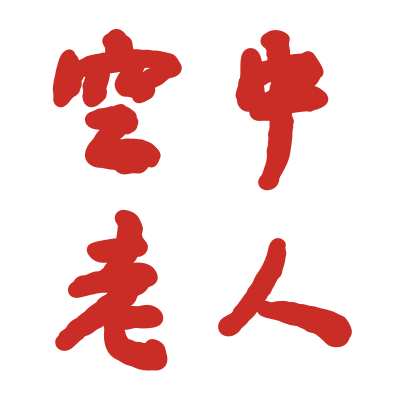
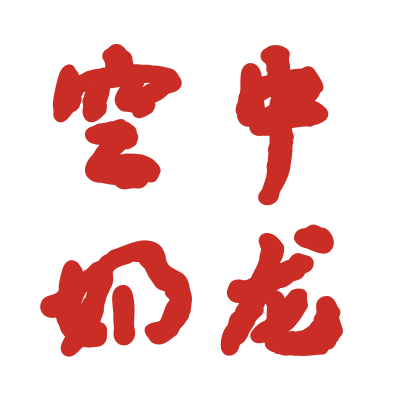
✨ Rename the veteran seal titles to Milk Dragon and Milk Frog.
- The >50% career-share composition seals now read 空中奶龙 / 水下奶蛙
  (was 空中老人 / 水下老人): the display text maps (RatingStamp
  STAMP_TEXT, overlay chip wording), the two regenerated seal bitmaps,
  the font-attribution copy in all nine locales, and every comment
  citing the old faces.
- The airVeteran / subVeteran kind IDs, the stats.seal*VeteranDesc
  award-criteria copy, and existing user seal customizations are
  untouched — only the face and its naming change.
- Bitmaps regenerated locally with 方正鲁迅行书 via
  scripts/gen_stamp_bitmaps.py (the font still ships nowhere); its
  docstring enumeration also gains the previously missing
  水下 over 小人 face.

diff --git a/packages/webui/src/utils/winrate.ts b/packages/webui/src/utils/winrate.ts
@@ -88,8 +88,8 @@ export type CareerStamp = "miracle" | "ape" | "maggot" | "rat";
  *  both a career stamp and a composition stamp. */
 export type CompositionStamp = "air" | "sub";
 
-/** Veteran composition stamps (老人章): a class share over 50% upgrades the
- *  tag to 空中老人 / 水下老人, which REPLACES the minor (小人) seal for that
+/** Veteran composition stamps (奶龙 / 奶蛙章): a class share over 50% upgrades the
+ *  tag to 空中奶龙 / 水下奶蛙, which REPLACES the minor (小人) seal for that
  *  class — the veteran implies the >20% tag, so only the stronger face shows.
  *  Still composition seals (they render at comp size); unlike the minor tags
  *  they never merge with career verdicts. */
@@ -133,7 +133,7 @@ export function isMergedStamp(kind: StampKind): boolean {
  *     invisible, so its composition tags carry nothing gradeable; the rat
  *     suppression has the same shape as the maggot floor.
  *   - Otherwise the legacy order [career?, air-tier?, sub-tier?] stands:
- *     each class shows its stronger face, the veteran seal (老人) when the
+ *     each class shows its stronger face, the veteran seal (奶龙 / 奶蛙) when the
  *     share is over 50%, the minor seal (小人) when only over 20%.
  *  `career` null and `comp` null/undefined degrade to the legacy pass-through
  *  with nothing to add. */
@@ -196,7 +196,7 @@ export function careerStamp(
 export interface CompositionStamps {
   air: boolean;
   sub: boolean;
-  /** >50% career share tiers (老人章) — each implies its base flag above by
+  /** >50% career share tiers (奶龙 / 奶蛙章) — each implies its base flag above by
    *  construction (0.5 > 0.2), so only the stronger face ever shows. */
   airVeteran: boolean;
   subVeteran: boolean;
@@ -205,7 +205,7 @@ export interface CompositionStamps {
 /** 空中小人 / 水下小人 criteria (user-defined): CV (resp. SS) battles must
  *  exceed 20% of the player's career battles, with a career total above 200
  *  battles so a fresh account's first CV foray doesn't earn the mark; over
- *  50% the tag upgrades to the veteran seal (空中老人 / 水下老人), which
+ *  50% the tag upgrades to the veteran seal (空中奶龙 / 水下奶蛙), which
  *  replaces the minor (小人) face for that class. `ships` is the player's
  *  full per-ship stat list; `typeOf` resolves the ship type (encyclopedia
  *  first, offline DB fallback). Career-level tags: they render on the

diff --git a/packages/webui/src/overlay/main.ts b/packages/webui/src/overlay/main.ts
@@ -354,8 +354,8 @@ const STAMP_TEXT: Record<StampKind, string> = {
   rat: "过街老鼠",
   air: "空中小人",
   sub: "水下小人",
-  airVeteran: "空中老人",
-  subVeteran: "水下老人",
+  airVeteran: "空中奶龙",
+  subVeteran: "水下奶蛙",
   airMiracle: "空中神人",
   subMiracle: "水下神人",
   airApe: "空中小猴",
@@ -636,7 +636,7 @@ function chipContent(name: string, side: "ally" | "enemy", storyLayout: boolean)
   // tags collapses into the merged 空中神人 / 水下神人 / 空中小猴 / 水下小猴
   // seals, which replace (consume) their constituents; 蛆 and 过街老鼠 each
   // suppress the comp tags entirely, and a >50% class share upgrades the
-  // minor tag to the veteran 老人 seal in the career-leads-then-air-then-sub
+  // minor tag to the veteran 奶龙 / 奶蛙 seal in the career-leads-then-air-then-sub
   // order. A name without stats yet shows no seal at
   // all — the verdicts are derived from data the stats/composition
   // batches bring. Hidden profiles with a clan additionally HOLD their

diff --git a/packages/webui/src/components/base/RatingStamp.tsx b/packages/webui/src/components/base/RatingStamp.tsx
@@ -36,7 +36,7 @@ let stampSeq = 0;
  *   - "rat" (过街老鼠): hidden profile — no stats to grade, hiding is the tell
  *   - "air" (空中小人) / "sub" (水下小人): composition tags for CV / submarine
  *     mains (career share > 20% over 200+ battles)
- *   - "airVeteran" (空中老人) / "subVeteran" (水下老人): the veteran
+ *   - "airVeteran" (空中奶龙) / "subVeteran" (水下奶蛙): the veteran
  *     composition tier for a class share > 50% — replaces the minor (小人)
  *     seal for that class and never merges with career verdicts
  *   - "airMiracle" (空中神人) / "subMiracle" (水下神人) / "airApe" (空中小猴)
@@ -82,8 +82,8 @@ const STAMP_TEXT: Record<StampKind, string> = {
   rat: "过街老鼠",
   air: "空中小人",
   sub: "水下小人",
-  airVeteran: "空中老人",
-  subVeteran: "水下老人",
+  airVeteran: "空中奶龙",
+  subVeteran: "水下奶蛙",
   airMiracle: "空中神人",
   subMiracle: "水下神人",
   airApe: "空中小猴",

diff --git a/packages/webui/src/features/share/statsShot.ts b/packages/webui/src/features/share/statsShot.ts
@@ -292,7 +292,7 @@ export async function renderStatsShot(
   // 水下神人 / 空中小猴 / 水下小猴 seals — which replace (consume) their
   // constituents — while 蛆 and 过街老鼠 each suppress the comp tags
   // entirely. Sizing: career verdicts keep today's hero scale; the comp
-  // faces render small — the minor tags and the veteran (老人) tiers alike,
+  // faces render small — the minor tags and the veteran (奶龙 / 奶蛙) tiers alike,
   // the veterans being composition seals too (and, unlike the minor tags,
   // never merging). A merged seal is hero-sized only when it is the
   // cluster's ONLY member — two merged seals render small so the hero band

diff --git a/packages/webui/src/components/stats/StatsCard.tsx b/packages/webui/src/components/stats/StatsCard.tsx
@@ -66,7 +66,7 @@ export default defineComponent({
     // alongside comp tags collapse into the merged 空中神人 / 水下神人 /
     // 空中小猴 / 水下小猴 seals, which replace (consume) their constituents;
     // 蛆 and 过街老鼠 each suppress the comp tags entirely, and a >50% class
-    // share shows the veteran (老人) tier in place of the minor tag.
+    // share shows the veteran (奶龙 / 奶蛙) tier in place of the minor tag.
     const stamps = computed(() => resolveStamps(stamp.value, composition.value));
     // The seals render nothing outside zh locales (RatingStamp's own rule),
     // while the PR rating is off (the seals toggle is the master switch's

diff --git a/packages/webui/src/components/stats/SealCustomizer.tsx b/packages/webui/src/components/stats/SealCustomizer.tsx
@@ -11,7 +11,7 @@ import type { StampKind } from "@/utils/winrate";
 import "./SealCustomizer.scss";
 
 /** The customizer's rows, in RatingStamp's canonical kind order (career
- *  verdicts, then the composition tags with their 老人 veteran tiers, then
+ *  verdicts, then the composition tags with their 奶龙 / 奶蛙 veteran tiers, then
  *  the merged 空中神人 / 水下神人 / 空中小猴 / 水下小猴 seals — the same
  *  order commands::stamps lists); each row renders its award-criteria
  *  description (stats.json `stats.seal*Desc` keys) — the stamps already

diff --git a/packages/webui/src/overlay/chipFit.ts b/packages/webui/src/overlay/chipFit.ts
@@ -22,7 +22,7 @@
 const FIT_TOLERANCE_PX = 1;
 
 /** The composition seals — the first to go when a chip must shrink. The
- *  veteran tiers (airVeteran / subVeteran — 空中老人 / 水下老人) belong here
+ *  veteran tiers (airVeteran / subVeteran — 空中奶龙 / 水下奶蛙) belong here
  *  with the minor tags: they are composition seals too (a >50% share face
  *  that replaces the minor one), so they trim FIRST. The MERGED seals
  *  (airMiracle / subMiracle / airApe / subApe — 空中神人 / 水下神人 /

diff --git a/packages/webui/src/stores/statsPrefs.ts b/packages/webui/src/stores/statsPrefs.ts
@@ -132,7 +132,7 @@ export const STATS_PREFS_STORAGE_KEY = "wowsp-stats-prefs";
 
 /** The canonical seal kinds — mirrored here (type-only import above) so
  *  parsePrefs can drop junk keys from a hand-edited blob. The veteran
- *  tiers (空中老人 / 水下老人) and the merged kinds (空中神人 / 水下神人 /
+ *  tiers (空中奶龙 / 水下奶蛙) and the merged kinds (空中神人 / 水下神人 /
  *  空中小猴 / 水下小猴) are first-class switches like the rest. */
 const STAMP_KINDS = [
   "miracle",

diff --git a/packages/webui/src/utils/winrate.test.ts b/packages/webui/src/utils/winrate.test.ts
@@ -321,7 +321,7 @@ describe("resolveStamps", () => {
   });
 
   it("merges veterans into the plain merged face (tier not distinguished)", () => {
-    // 照常合并: the merged seal consumes the veteran tier — no 水下神人·老人
+    // 照常合并: the merged seal consumes the veteran tier — no 水下神人·奶蛙
     // exists, the merge fires on the class tag alone.
     expect(
       resolveStamps("miracle", { air: false, sub: true, airVeteran: false, subVeteran: true }),

diff --git a/packages/webui/src/overlay/overlayPrefs.ts b/packages/webui/src/overlay/overlayPrefs.ts
@@ -97,7 +97,7 @@ export interface OverlayDisplayPrefs {
 }
 
 /** Known seal kinds — junk keys in the kill-switch map are dropped. The
- *  veteran tiers (空中老人 / 水下老人) and the merged kinds (空中神人 /
+ *  veteran tiers (空中奶龙 / 水下奶蛙) and the merged kinds (空中神人 /
  *  水下神人 / 空中小猴 / 水下小猴) participate like every other seal. */
 const STAMP_KINDS: readonly StampKind[] = [
   "miracle",

diff --git a/packages/app/tauri/src/commands/wg_composition.rs b/packages/app/tauri/src/commands/wg_composition.rs
@@ -1,4 +1,4 @@
-//! Composition stamps ("空中小人 / 水下小人", upgraded to the veteran 老人
+//! Composition stamps ("空中小人 / 水下小人", upgraded to the veteran 奶龙 / 奶蛙
 //! tier past a 50% class share) for the Tab overlay roster.
 //!
 //! The overlay batch lookup (`wg_api::lookup_players_stats_batch`) is
@@ -44,7 +44,7 @@ const BATCH_CONCURRENCY: usize = 4;
 
 /// Career battles a player must EXCEED before any seal can show — and the
 /// class share must EXCEED 20% for the minor tag, EXCEED 50% for the veteran
-/// (老人) tier that replaces it. All bounds strictly greater; the values and
+/// (奶龙 / 奶蛙) tier that replaces it. All bounds strictly greater; the values and
 /// the strictness mirror the frontend `compositionStamps()` defaults
 /// (`minBattles = 200`, `minShare = 0.2`, `minVeteranShare = 0.5`) exactly.
 const MIN_CAREER_BATTLES: i64 = 200;
@@ -487,7 +487,7 @@ pub(crate) fn composition_from_rows(
 /// The threshold rule, shared shape with the frontend `compositionStamps()`
 /// (packages/webui/src/utils/winrate.ts): `career <= 200` → no seal, else
 /// `air / career > 0.2` / `sub / career > 0.2` for the minor tag and
-/// `> 0.5` for the veteran (老人) tier that replaces it — strictly greater
+/// `> 0.5` for the veteran (奶龙 / 奶蛙) tier that replaces it — strictly greater
 /// on every bound. The percent cross-multiplication is the exact integer
 /// form of the frontend's float division (battle counts are integers well
 /// below 2^53, so `air * 100 > 20 * career` and `air / career > 0.2` can

diff --git a/scripts/gen_stamp_bitmaps.py b/scripts/gen_stamp_bitmaps.py
@@ -12,9 +12,9 @@ files. Re-run locally when a glyph or style changes:
 
 Output: 400x400 transparent PNGs (2x the 100-unit SVG box), centered cinnabar
 ink with an outline stroke. Single-glyph verdicts (神 / 猴 / 蛆) dominate the face;
-four-char seals stack two lines into the classic 2x2 face (空中 over 小人,
+four-char seals stack two lines into the classic 2x2 face (空中 over 小人, 水下 over 小人,
 过街 over 老鼠, 空中 over 神人, 水下 over 神人, 空中 over 小猴, 水下 over 小猴,
-空中 over 老人, 水下 over 老人).
+空中 over 奶龙, 水下 over 奶蛙).
 Requires Pillow."""
 import argparse
 import os
@@ -39,8 +39,8 @@ JOBS = [
     ("stamp-sub-miracle.png", ["水下", "神人"], "luxun", 165),
     ("stamp-air-ape.png", ["空中", "小猴"], "luxun", 165),
     ("stamp-sub-ape.png", ["水下", "小猴"], "luxun", 165),
-    ("stamp-air-veteran.png", ["空中", "老人"], "luxun", 165),
-    ("stamp-sub-veteran.png", ["水下", "老人"], "luxun", 165),
+    ("stamp-air-veteran.png", ["空中", "奶龙"], "luxun", 165),
+    ("stamp-sub-veteran.png", ["水下", "奶蛙"], "luxun", 165),
 ]
 
 
